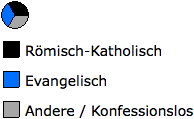
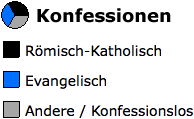
Update to newest version

Changed region(s): [[0.1856, 0.0504, 0.8969, 0.2017]]

diff --git a/map.html b/map.html
@@ -368,7 +368,7 @@
           <img src="images/close12.png">
         </a>
         <div id="legendDiv">
-          <div id="legendTitle">Legende</div>
+          <div id="legendTitle" style="margin-bottom:10px;">Legende</div>
           <div id="myLegend">
           </div>
           <div id="legend">
@@ -391,7 +391,7 @@
           <img src="images/close12.png">
         </a>
         <div class="menuPane-head">
-          Karte exportieren:
+          Karte drucken:
         </div>
         <div class="menuPaneContent">
 
@@ -431,8 +431,8 @@
       </a>
   
       <!-- Info Button -->
-      <a href="#" class="icons" id="infoButton" onclick="showPane('infoWindow')" style="position: absolute; right:12px; top:100%; margin-top: -55px; z-index: 2; width: 35px;">
-        <img id="infoBtnImg" src="images/information.png" style="margin-left: 10px; margin-right: 10px;">
+      <a href="http://www.lwl.org/LWL/Kultur/geko/1383213708/" class="icons" id="infoButton" style="position: absolute; right:10px; top:100%; margin-top: -100px; z-index: 2;">
+        <img id="infoBtnImg" src="images/chalkboard.png">
       </a>
 
       <!-- Info Pane -->
@@ -502,7 +502,7 @@
   	</div>
     <!--<img src="images/lwl_logo_map.png">
   </a>-->
-  <a href="http://ifgi.uni-muenster.de/" target="_blank" id="ifgi_logo_map" style="position: absolute; right:80px; bottom:2px; z-index: 2; height:45px;">
+  <a href="http://ifgi.uni-muenster.de/" target="_blank" id="ifgi_logo_map" style="position: absolute; right:10px; bottom:2px; z-index: 2; height:45px;">
     <img src="images/ifgi_logo_map.png">
   </a>
   <!--

diff --git a/js/main.js b/js/main.js
@@ -488,8 +488,8 @@ function reCenterAndZoom(center, zoom, extent, frameNr) {
  */
 function onLoadCheck() {
 	if (self.name == "frame1") {
-        document.getElementById("welcome").style.display = 'block';
-        document.getElementById("welcomeBackground").style.display = 'block';
+        // document.getElementById("welcome").style.display = 'block';
+        // document.getElementById("welcomeBackground").style.display = 'block';
 	}
     if (self.name == "frame2") {
         document.getElementById("splitDiv").removeChild(document.getElementById("slideAwayButton_split"));

diff --git a/css/lwl-style.css b/css/lwl-style.css
@@ -232,7 +232,7 @@ font-weight:bold;
 #copyrightLwl {
 	font-size: 11px;
 	position: absolute;
-	right:120px;
+	right: 45px;
 	bottom: 0px;
 	z-index: 2;
 	opacity: 0.5;
